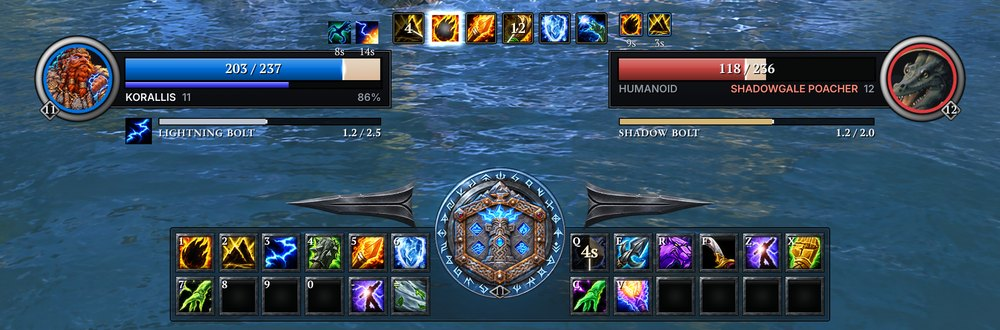
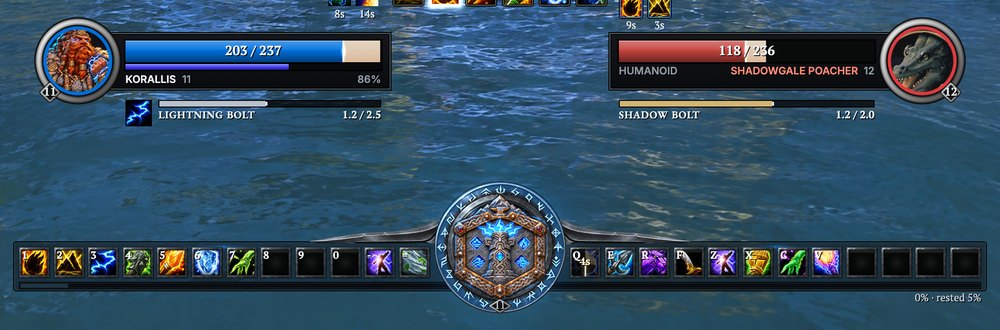
fix(actionbars): one-row connected Medallions action slab (#402)
* fix(actionbars): one-row connected Medallions action slab

Bars 1 and 2 stand in one row at every screen under Medallions (35.5-unit
slots at 16:9), and the slab, crest hub, wings and experience strip are one
connected piece. LEE-1543.

* docs(readme): retake the Medallions pictures over the scenery plate

---------

diff --git a/Tools/render/readme.py b/Tools/render/readme.py
@@ -82,7 +82,7 @@ IMAGES = [
     ("hud_medallions_5120", "render:medallions_5120", None, 1600),
     ("hud_medallions_1080", "render:medallions_1080", None, 1200),
     ("crop_orbs", "render:orbs_1080_2x", "2120x525+860+1615", 1000),
-    ("crop_medallions", "render:medallions_1080_2x", "2120x700+860+1380", 1000),
+    ("crop_medallions", "render:medallions_1080_2x", "2120x700+860+1460", 1000),
     ("crop_unitframes", "render:frames_1080_2x", "1480x560+1260+1290", 900),
     ("crop_nameplates", "render:plates", "1340x780+400+300", 800),
     ("crop_meter", "render:meter_party", "540x300+3290+1820", 540),

diff --git a/KstyleUI_ActionBars/README.md b/KstyleUI_ActionBars/README.md
@@ -186,10 +186,12 @@ Shared rows: the font, size and outline of each of the four texts (the size is m
 
 ## Medallions slab
 
-Under the Medallions HUD style (KSTY-87 and KSTY-88, Lee's rulings of 2026-11-15), bars 1 and 2 are the two groups of one action slab: 6 by 2 slots each below 21:9, 12 by 1 at 21:9 and wider (`Slab.Rows`, from `Layouts.MedallionsGroup`). `Layouts.lua` places them on one baseline with `MEDALLIONS_HUB_GAP` between them; `Slab.lua` draws the slab behind them and the crest hub centred in the gap, its centre on the slots' top edge.
+Under the Medallions HUD style (KSTY-87 and KSTY-88, Lee's rulings of 2026-11-15 and LEE-1543 of 2026-11-16), bars 1 and 2 are the two groups of one action slab, one row of twelve each at every screen (`Slab.Rows`). `Layouts.MedallionsGroup` sizes the slots per layout class from `Layouts.MEDALLIONS_SLOT`: the bars' own 45.1 units at 21:9 and wider, and 35.5 units at 16:9, the largest that keeps 24 slots and the hub beside the chat without lowering the automatic HUD size at any CREW screen (`MEDALLIONS_SLOT.floor`). `Slab.Size` scales a bar's button size by that share, and `Slab.TextSize` scales its keybind, count and macro texts with it down to 9 units and its cooldown numbers by the square of it down to the text floor, so a keybind and a countdown do not cross in a small slot. At 16:9 the pet and stance bars stand in two rows of five right of the slab (`Layouts.MEDALLIONS_SIDE_ROWS`), and the frame row rises until the target of target clears the bag bar. `Layouts.lua` places the groups on one baseline with `MEDALLIONS_HUB_GAP` between them and the experience strip along the slab's lower edge (`Layouts.MEDALLIONS_SLAB`: a 6-unit pad, the strip 4 units under the slots, then a 3-unit lip).
 
-- **Slots draw above the hub.** The slab and the hub, with its wings, rune ring, glow, sheen, particles, burst and plaque, draw at strata `LOW`; the slots and everything on them inherit the root's `MEDIUM`. The hub scales down to fit a gap narrower than its ring plus 4 units each side, and the wings sit above the top row, so no part of it covers a slot. The level number draws one sublevel above the plaque on the same frame (`OVERLAY` 4 over 3), so the plaque never hides it. `test-actionbars-medallions-hub` holds all three at every CREW screen.
+`Slab.lua` draws one connected piece: the slab encloses both groups and the strip; the crest hub sits in the gap, its centre on the slots' top edge and its frame level 8 over the slab, so it draws over the strip and the slab passes behind it; and each wing is the upper half of the M3 wing texture, its flat cut sunk 2 units into the slab's top edge. At rest a wing's root hides 22 units under the rune ring; in combat it slides 22 units out along the slab, so its root stays under the ring. The strip's holder (DataBars) moves to strata `LOW` under Medallions so the hub draws over it. `test-actionbars-medallions-slab` holds one row and no gap between the slab, the hub, both wings and the strip, at rest and in combat, at every CREW screen.
+
+- **Slots draw above the hub.** The slab and the hub, with its wings, rune ring, glow, sheen, particles, burst and plaque, draw at strata `LOW`; the slots and everything on them inherit the root's `MEDIUM`. The hub scales down to fit a gap narrower than its ring plus 4 units each side, and the wings sit on the slab's top edge above the slots, so no part of it covers a slot. The level number draws one sublevel above the plaque on the same frame (`OVERLAY` 4 over 3), so the plaque never hides it. `test-actionbars-medallions-hub` holds all three at every CREW screen.
 - **The crest** comes from `KstyleUI.Medallions.Crest("player")` (its first return, with the second as the bloom), else a placeholder.
-- **Motion** is AnimationGroups only: the rune ring turns (Rotation, 90 s a turn, 2.25 times faster in combat through `SetAnimationSpeedMultiplier`), the glow and bloom breathe (Alpha, 4.2 s), a sheen crosses the crest every 6 s, and 5 particles rise at rest, 10 in combat. `PLAYER_REGEN_DISABLED` slides the wings out 22 units and fires the shockwave, crest flash and a light sweep along the slab both ways; `PLAYER_REGEN_ENABLED` folds them back. `SPELL_ACTIVATION_OVERLAY_GLOW_SHOW` starts a class-tinted loop on the slot (the class's flipbook) and pulses the crest and glyphs; `SPELL_ACTIVATION_OVERLAY_GLOW_HIDE` stops the loop. `PLAYER_LEVEL_UP` writes the level, turns the plaque gold and plays the burst. Each piece asks `KstyleUI.Effects.Allows(kind)` (ambient, flare, particle or pulse) and follows `EffectsLevelChanged` when the effects layer is loaded, else maps the motion setting the same way: Full plays everything, Calm keeps the rune turn, breathing and sheen and every one-shot flare but holds the slot loop still and shows no particles, Off keeps the hub still and moves the wings at once.
+- **Motion** is AnimationGroups only: the rune ring turns (Rotation, 90 s a turn, 2.25 times faster in combat through `SetAnimationSpeedMultiplier`), the glow and bloom breathe (Alpha, 4.2 s), a sheen crosses the crest every 6 s, and 5 particles rise at rest, 10 in combat. `PLAYER_REGEN_DISABLED` slides the wings out 22 units along the slab and fires the shockwave, crest flash and a light sweep along the slab both ways; `PLAYER_REGEN_ENABLED` folds them back. `SPELL_ACTIVATION_OVERLAY_GLOW_SHOW` starts a class-tinted loop on the slot (the class's flipbook) and pulses the crest and glyphs; `SPELL_ACTIVATION_OVERLAY_GLOW_HIDE` stops the loop. `PLAYER_LEVEL_UP` writes the level, turns the plaque gold and plays the burst. Each piece asks `KstyleUI.Effects.Allows(kind)` (ambient, flare, particle or pulse) and follows `EffectsLevelChanged` when the effects layer is loaded, else maps the motion setting the same way: Full plays everything, Calm keeps the rune turn, breathing and sheen and every one-shot flare but holds the slot loop still and shows no particles, Off keeps the hub still and moves the wings at once.
 - **Textures** are M3's `med*` tokens; until they exist each falls back to an existing texture.
 - **The effects layer** (`SlabEffects.lua`, [medallions-effects.md](../docs/medallions-effects.md)): a proc holds its slot and adds the class's 3D model at the hub; a level-up adds the level-up model over the 2D burst; while either holds the hub its sheen and particles pause. A slot's ready flash is a steel flash that yields to a proc, and the hub's rune glyphs light while the player's resource is capped.

diff --git a/docs/feature-map.md b/docs/feature-map.md
@@ -18,7 +18,7 @@ One row per player-facing feature, in the names the README and the v0.1.0 change
 | Wide target bar | Unit Frames > Target > Style | `KstyleUI_UnitFrames/Frames.lua`, `Geometry.lua` | `test-unitframes-target-bar`, `test-unitframes-target-orbs` | `hud_reference` with `RENDER_HUD_STYLE=Orbs`, or `hud` scenes with `RENDER_TARGET_STYLE` |
 | Cast bars | Unit Frames | `KstyleUI_UnitFrames/CastBar.lua` | `test-unitframes-castbar*`, `test-unitframes-cast-flashes`, `test-unitframes-column-cast` | `hud_reference` (the picture's casts), `gallery_unitframes` |
 | Action bars and the shared action slot | Action Bars; `/kstyle bind` | `KstyleUI_ActionBars/` (`Bar.lua`, `Button.lua`, `Socket.lua`) | `test-actionbars*` | `gallery_actionbars`, `slots`, `buttons_mac` |
-| Medallions action slab and crest hub | General > HUD style (Medallions) | `KstyleUI_ActionBars/Slab.lua`, `Bar.lua` (`Slab.Rows`), `Button.lua` (`SetProc`) | `test-actionbars-medallions-hub` (strata, footprint and the plaque under its level number at every CREW screen), `test-actionbars-medallions-effects` (proc, combat, level-up, motion off, crest) | `hud_reference` with `RENDER_HUD_STYLE=Medallions RENDER_MEDALLIONS_STATE=calm|combat|proc|levelup` |
+| Medallions action slab and crest hub: one row of 24 at every screen, the slab, hub, wings and experience strip as one connected piece | General > HUD style (Medallions) | `KstyleUI_ActionBars/Slab.lua`, `Bar.lua` (`Slab.Rows`, `Slab.Size`), `Button.lua` (`SetProc`, `Slab.TextSize`), `Core/Setup/Layouts.lua` (`MedallionsGroup`, `MEDALLIONS_SLOT`, `MEDALLIONS_SLAB`), `KstyleUI_DataBars/Bars.lua` (the strip at strata `LOW`) | `test-actionbars-medallions-slab` (one row and no gap between slab, hub, wings and strip at every CREW screen), `test-actionbars-medallions-hub` (strata, footprint, slot floor and the plaque under its level number at every CREW screen), `test-layout-medallions-hub` (the strip along the slab's lower edge), `test-actionbars-medallions-effects` (proc, combat, level-up, motion off, crest) | `hud_reference` with `RENDER_HUD_STYLE=Medallions RENDER_MEDALLIONS_STATE=calm|combat|proc|levelup` |
 | Medallions effects: motion level, 3D effects, ready flash, hub ring, cast flash, low-health vignette, leave-combat rest | General > Medallions > Medallions motion | `Core/Effects.lua`, `Core/EffectModels.lua`, `Core/EffectBursts.lua`, `Core/Vignette.lua`, `Core/Layout/Rest.lua`, `KstyleUI_ActionBars/SlabEffects.lua`, `KstyleUI_UnitFrames/CastEffects.lua`; [medallions-effects.md](medallions-effects.md) | `test-effects-layer` (levels, arbitration, the three-model cap, vignette, rest), `test-actionbars-medallions-fx`, `test-unitframes-medallions-fx`, `test-perf` (Effects paths) | `hud_reference` with `RENDER_HUD_STYLE=Medallions RENDER_FX=ready\|cap\|levelup\|cast\|stopped\|vignette\|burst\|rest` and `RENDER_FX_T` |
 | New spell rank offer | Action Bars | `KstyleUI_ActionBars/Ranks.lua` | `test-actionbars-ranks` | none |
 | Cooldown Manager rows and tracked buffs | Cooldowns | `KstyleUI_Cooldowns/` | `test-cooldowns-*`, `test-tracked-caps` | `cooldowns`, `gallery_cooldowns`, `gallery_tracked`; `hud_reference` with `RENDER_COOLDOWN_FALLBACK=1` |

diff --git a/docs/statecharts/hud-style.md b/docs/statecharts/hud-style.md
@@ -40,7 +40,7 @@ stateDiagram-v2
 
 | Listener | What it does |
 | --- | --- |
-| `Core/Scale.lua` | `Request("the HUD style")`: the scale limit depends on the style. Under Medallions `Layouts.Fits` sizes bars 1 and 2 as the slab's two groups (6 by 2 slots below 21:9, 12 by 1 at 21:9 and wider) and counts the hub, a square 150 units wide centred on the slots' top edge, as a rect no element may enter; the one-row slab stands high enough that the hub clears the experience strip. See [arrangement-layout-class.md](arrangement-layout-class.md). |
+| `Core/Scale.lua` | `Request("the HUD style")`: the scale limit depends on the style. Under Medallions `Layouts.Fits` sizes bars 1 and 2 as the slab's two groups (12 by 1 at every layout class, the slots `Layouts.MEDALLIONS_SLOT` wide) and counts the hub, a square 150 units wide centred on the slots' top edge, as a rect no element may enter except the experience strip, which runs along the slab's lower edge under the hub (the hub draws over it). See [arrangement-layout-class.md](arrangement-layout-class.md). |
 | `Core/Layout/Layout.lua` | `Restyle`: `ResolveAll` (each element's default comes from `StyleDefault` for the new style: Orbs and Medallions each have a table in `Setup/Layouts.lua`, Medallions' with 21:9 and 32:9 places of its own), `UpdateEvents`, `ApplyAll`, `LayoutChanged` for every element, then `Mode("Refresh")` when Layout Mode is open. |
 | `Core/Setup/Setup.lua` | `Apply` takes any style `HudStyle.Offered` allows (Medallions while `HudStyle.MEDALLIONS_READY` is true, as it ships); `Restyle`: when `Setup.Apply` is not writing and the active Edit Mode layout is KstyleUI's layout for the current `Layout.preset` (`EditMode.ActiveName()` equals the preset), queues `EditMode.Restyle` to move the viewers and rows KstyleUI placed. |
 | `KstyleUI_UnitFrames/Frames.lua` | `OnHudStyleChanged`: `Orbs.Apply`, the player frame, every restyle, and Blizzard's frames. |
@@ -53,7 +53,7 @@ stateDiagram-v2
 | `Core/EffectModels.lua` | Leaving Medallions stops every live 3D model. |
 | `Core/Vignette.lua` | Listens to the player's health and death only under Medallions; shows or hides the low-health vignette. |
 | `Core/Layout/Rest.lua` | Listens to combat only under Medallions; leaving Medallions wakes any resting secondary frame at once. |
-| `KstyleUI_ActionBars/Slab.lua` | `OnStyle`: `Slab.Refresh` shows the action slab and the crest hub under Medallions while bars 1 and 2 stand on one baseline, hides them otherwise, and starts or stops each proc slot's Medallions loop. Bars 1 and 2 take the slab's rows (`Slab.Rows`, from `Layouts.MedallionsGroup`) when Layout's `LayoutChanged` lays them out again. |
+| `KstyleUI_ActionBars/Slab.lua` | `OnStyle`: `Slab.Refresh` shows the action slab and the crest hub under Medallions while bars 1 and 2 stand on one baseline, hides them otherwise, and starts or stops each proc slot's Medallions loop. Bars 1 and 2 take the slab's one row (`Slab.Rows`) and its slot size (`Slab.Size`, from `Layouts.MedallionsGroup`), and at 16:9 the pet and stance bars its two rows of five, when Layout's `LayoutChanged` lays them out again. |
 
 ## Medallions in the module listeners
 

diff --git a/README.md b/README.md
@@ -39,12 +39,12 @@
 
 **Medallions** is new in v0.2.0. Your player and target frames become dark steel slabs with clean bars and a round medallion on the outer end. Yours is a painted portrait of your race, class and sex, and other players get their own. A creature, pet or boss shows the game's own portrait.
 
-Your first two action bars sit on one steel slab: two rows of six on each side of the centre on screens narrower than 21:9, and one row of twelve on each side on 21:9 and 32:9. In the middle is a crest painted for your race and class, 52 in all, in a turning ring of runes in your class colour. At rest the crest breathes. Its wings spread when you enter combat, it pulses when an ability beside it lights up, and it bursts when you level up. It sits under your action buttons, so it never hides a spell.
+Your first two action bars sit on one steel slab in a single row on every screen: twelve buttons left of the centre and twelve right of it, with your experience along the slab's lower edge. On 16:9 and narrower screens the buttons are a fifth smaller so the row fits beside your chat, and the pet and stance bars stand in two rows of five to its right. In the middle is a crest painted for your race and class, 52 in all, seated in the slab in a turning ring of runes in your class colour. At rest the crest breathes. Its wings grow out along the slab's top edge when you enter combat, it pulses when an ability beside it lights up, and it bursts when you level up. It sits under your action buttons, so it never hides a spell.
 
 <table>
 <tr>
 <td width="50%"><img src="docs/media/readme/hud_medallions_1080.jpg" alt="Test render of the KstyleUI addon's Medallions HUD on a 1920 by 1080 screen in combat"></td>
-<td width="50%"><img src="docs/media/readme/crop_medallions.jpg" alt="Test render of the KstyleUI addon's Medallions HUD up close: the player and target medallions on their slabs, the cast bars under them, and the crest hub between two rows of six action buttons on each side"></td>
+<td width="50%"><img src="docs/media/readme/crop_medallions.jpg" alt="Test render of the KstyleUI addon's Medallions HUD up close: the player and target medallions on their slabs, the cast bars under them, and the crest hub seated in the action slab between twelve action buttons on each side"></td>
 </tr>
 </table>
 

diff --git a/Tools/render/README.md b/Tools/render/README.md
@@ -11,7 +11,7 @@ Screen units: the screen is 1080 units tall, x grows right and y grows down from
 `RENDER_HUD_STYLE=Frames|Orbs|Medallions` is the saved HUD style of every profile a scene loads that names none, so a gallery or a skin scene draws in that style as well as the `hud` scenes; `Common.ForceScreen` writes it before the addon loads.
 `RENDER_STORY=live|tirisfal` swaps the picture's guide and quests for the owner's first live session (`Reference.LIVE`) or his v0.1.2 report of RestedXP's Tirisfal Glades step 11 (`Reference.TIRISFAL`). `RENDER_RXP_BOXES=1` shows RestedXP's Active Targets and Active Items boxes for the rail to dock, and `RENDER_RXP_ANCHOR=bottom` anchors RestedXP's active steps under its window, as its "bottom" orientation and its own flip at the screen's top do.
 
-`RENDER_MEDALLIONS_STATE=calm|combat|proc|levelup` (with `RENDER_HUD_STYLE=Medallions`) puts the action slab to work for a crop: bar 2's first slot, beside the crest hub, on a cooldown, then nothing more (calm), entering combat 0.3 s before the frame (the wings out), a fresh proc 0.3 s in on the bar 1 slot beside the hub (6 on two rows, 12 on one), or level 12 0.4 s into the burst. The scene samples playing FlipBook animations at the clock, so a proc loop or a burst shows the cell it has reached.
+`RENDER_MEDALLIONS_STATE=calm|combat|proc|levelup` (with `RENDER_HUD_STYLE=Medallions`) puts the action slab to work for a crop: bar 2's first slot, beside the crest hub, on a cooldown, then nothing more (calm), entering combat 0.3 s before the frame (the wings out), a fresh proc 0.3 s in on bar 1's slot 12, beside the hub, or level 12 0.4 s into the burst. The scene samples playing FlipBook animations at the clock, so a proc loop or a burst shows the cell it has reached.
 `RENDER_BAR3=1` turns action bar 3 on after a scene applies its preset, which leaves it off, and shows the empty slots of bar 3 and of the pet bar, so a whole-HUD scene shows bar 3's place beside them.
 `RENDER_CARD_MATERIAL=Glass|Flat|Slate|ForgedTicks|ForgedBrackets` selects the real
 saved setting before modules build. With these variables unset, the reference

diff --git a/docs/RELEASE_NOTES.md b/docs/RELEASE_NOTES.md
@@ -2,6 +2,10 @@
 
 The player-facing notes for every release are in [`CHANGELOG.md`](../CHANGELOG.md). The packager reads that file, so the GitHub release carries the whole file. The owner tags a release on `main` after the in-game test of `staging` passes, as [`TESTING.md`](TESTING.md) describes.
 
+## 0.2.1: the Medallions action slab, connected
+
+Under Medallions your first two action bars now stand in one row on every screen, twelve either side of the crest, as the design drew them, instead of two rows of six below 21:9. The slab, the crest, its wings and your experience strip are one connected piece: the crest sits in the slab, its wings grow out along the slab's top edge and slide along it in combat, and the experience strip runs along the slab's lower edge. On 16:9 and narrower screens the buttons are a fifth smaller so the row fits beside your chat, and the pet and stance bars move to the right of the slab in two rows of five. Frames and Orbs are unchanged. No fonts or textures changed, so `/reload` is enough after installing. The full list is in [`CHANGELOG.md`](../CHANGELOG.md).
+
 ## 0.2.0: Medallions
 
 A third HUD style, Medallions, next to Frames and Orbs. Your frames become steel slabs with a round medallion that shows a painted portrait of your race, class and sex. Your first two action bars share one steel slab, and at its centre sits a crest painted for your race and class. The crest breathes at rest, spreads its wings in combat, pulses when an ability beside it lights up and bursts when you level up, always under your action buttons. Medallions motion, under Options > General > Medallions, sets how much moves: Full, Calm or Off. Cards, windows, the minimap, party, raid frames and nameplates follow in steel. Pick it in Options > General > HUD style or in the first-run setup. The addon has new files, so fully restart the game after installing rather than using `/reload`. The full list is in [`CHANGELOG.md`](../CHANGELOG.md).

diff --git a/CHANGELOG.md b/CHANGELOG.md
@@ -1,5 +1,15 @@
 # KstyleUI changelog
 
+## v0.2.1 (2026-11-16)
+
+The Medallions action slab as it was designed: one row and one connected piece.
+
+### Changed
+
+- Under Medallions, your first two action bars stand in a single row on every screen: twelve buttons left of the crest and twelve right of it. On 16:9 and narrower screens, such as a MacBook, the buttons are a fifth smaller so the row fits beside your chat, and their keybinds and cooldown numbers shrink with them so they never overlap.
+- The slab, the crest and its wings are now one piece. The crest sits in the slab, the wings grow out of the crest along the slab's top edge and slide further along it when you enter combat, and your experience runs along the slab's lower edge, under the crest.
+- Under Medallions on 16:9 and narrower screens, the pet and stance bars stand in two rows of five to the right of the slab, and the player and target frames sit a little higher so your target's target clears the bag bar.
+
 ## v0.2.0 (2026-11-16)
 
 A third HUD style, Medallions, with a painted portrait of your character and a crest for your race and class.
